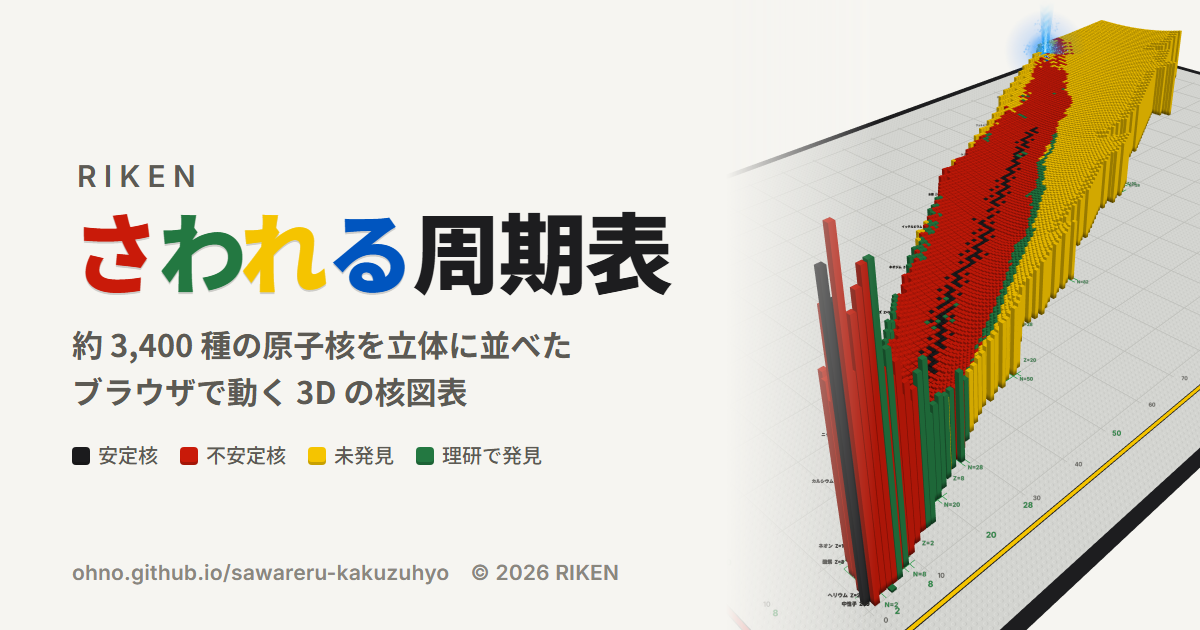
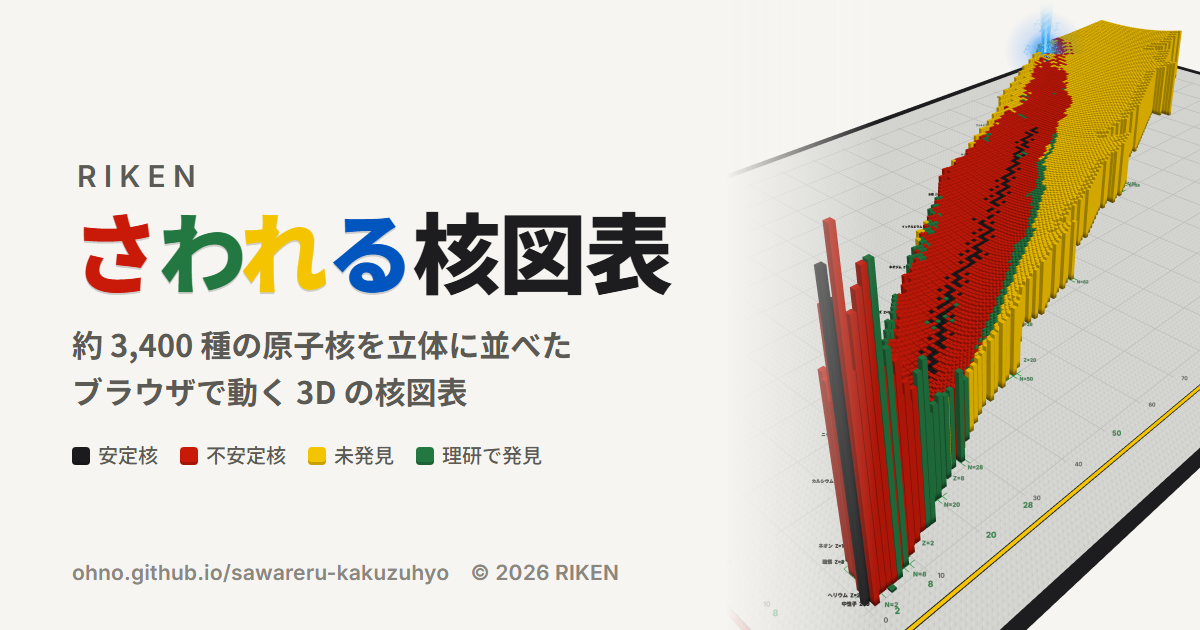
Name the app RIKENさわれる核図表 (RIKEN Touchable Nuclide Chart)
The name is RIKENさわれる核図表, not 周期表: the tab title, the header,
the link-preview image and tags (ogp.png?v=4), the README, the line on
how to cite the project and THIRD-PARTY-NOTICES. In English it is again
RIKEN Touchable Nuclide Chart.

Changed region(s): [[0.3392, 0.3317, 0.4933, 0.4825], [0.4625, 0.9048, 0.4933, 0.9349], [0.3392, 0.9048, 0.37, 0.9349]]

diff --git a/src/index.html b/src/index.html
@@ -3,21 +3,21 @@
 <head>
   <meta charset="utf-8">
   <meta name="viewport" content="width=device-width, initial-scale=1">
-  <title>RIKENさわれる周期表</title>
+  <title>RIKENさわれる核図表</title>
   <meta name="description" content="約 3,400 種の原子核を立体に並べた核図表。回して、近づいて、箱にふれると、半減期や崩壊のゆくえがわかります。">
   <meta name="theme-color" content="#f6f5f1">
   <link rel="canonical" href="https://ohno.github.io/sawareru-kakuzuhyo/">
   <link rel="icon" href="favicon.svg" type="image/svg+xml">
   <!-- link previews: ogp.png (1200 × 630) is the chart as the app draws it, with the title -->
   <meta property="og:type" content="website">
-  <meta property="og:site_name" content="RIKENさわれる周期表">
-  <meta property="og:title" content="RIKENさわれる周期表">
+  <meta property="og:site_name" content="RIKENさわれる核図表">
+  <meta property="og:title" content="RIKENさわれる核図表">
   <meta property="og:description" content="約 3,400 種の原子核を立体に並べた核図表。回して、近づいて、箱にふれると、半減期や崩壊のゆくえがわかります。">
   <meta property="og:url" content="https://ohno.github.io/sawareru-kakuzuhyo/">
-  <meta property="og:image" content="https://ohno.github.io/sawareru-kakuzuhyo/ogp.png?v=3"><!-- ?v=: a new image gets a new address, so link previews fetch it again -->
+  <meta property="og:image" content="https://ohno.github.io/sawareru-kakuzuhyo/ogp.png?v=4"><!-- ?v=: a new image gets a new address, so link previews fetch it again -->
   <meta property="og:image:width" content="1200">
   <meta property="og:image:height" content="630">
-  <meta property="og:image:alt" content="理研レゴ核図表の配色で原子核を立体に並べた核図表と、タイトル「RIKENさわれる周期表」">
+  <meta property="og:image:alt" content="理研レゴ核図表の配色で原子核を立体に並べた核図表と、タイトル「RIKENさわれる核図表」">
   <meta property="og:locale" content="ja_JP">
   <meta name="twitter:card" content="summary_large_image">
   <link rel="preconnect" href="https://fonts.googleapis.com">
@@ -39,7 +39,7 @@
   <!-- left panel: search, tutorial and settings. The lists marked "filled by main.js" come from the tables in js/ and data/. -->
   <aside id="controls" class="panel left collapsed" aria-label="検索と設定" data-en-aria-label="Search and settings">
     <header class="brand">
-      <h1 class="logo" aria-label="RIKENさわれる周期表" data-en-aria-label="RIKEN Touchable Periodic Table" data-en-html='<small class="logo-org">RIKEN</small><span class="logo-name"><span class="k-r">T</span><span class="k-g">o</span><span class="k-y">u</span><span class="k-b">c</span>hable Periodic Table</span>'><small class="logo-org">RIKEN</small><span class="logo-name"><span class="k-r">さ</span><span class="k-g">わ</span><span class="k-y">れ</span><span class="k-b">る</span>周期表</span></h1>
+      <h1 class="logo" aria-label="RIKENさわれる核図表" data-en-aria-label="RIKEN Touchable Nuclide Chart" data-en-html='<small class="logo-org">RIKEN</small><span class="logo-name"><span class="k-r">T</span><span class="k-g">o</span><span class="k-y">u</span><span class="k-b">c</span>hable Nuclide Chart</span>'><small class="logo-org">RIKEN</small><span class="logo-name"><span class="k-r">さ</span><span class="k-g">わ</span><span class="k-y">れ</span><span class="k-b">る</span>核図表</span></h1>
       <button id="collapse" class="icon-btn" title="パネルを開く・たたむ" aria-label="パネルを開く・たたむ" data-en-title="Open or fold the panel" data-en-aria-label="Open or fold the panel" aria-expanded="false">+</button>
     </header>
     <div class="panel-body">

diff --git a/src/js/main.js b/src/js/main.js
@@ -31,7 +31,7 @@ THREE.ColorManagement.enabled = false;
 
 // the page's own words in its language, at once (the JA / EN buttons on the toolbar switch it)
 translatePage();
-if (EN) document.title = 'RIKEN Touchable Periodic Table';
+if (EN) document.title = 'RIKEN Touchable Nuclide Chart';
 
 const $ = (s) => document.querySelector(s);
 const $$ = (s) => [...document.querySelectorAll(s)];

diff --git a/data/README.md b/data/README.md
@@ -16,7 +16,7 @@
 | `hypernuclei.yaml` | ハイパー核 | [Mainz Chart of Hypernuclides](https://hypernuclei.kph.uni-mainz.de/)（2026-08-04 のデータ）。Ξ は E. Friedman & A. Gal, *EPJ Web Conf.* **271**, 03002 (2022)（[CC BY 4.0](https://creativecommons.org/licenses/by/4.0/)） |
 | `hyper-driplines.yaml` | ハイパー核のドリップライン | C. Samanta et al., *J. Phys. G* **35**, 065101 (2008)；P. Roy Chowdhury et al., *Rom. Rep. Phys.* **62**, 65 (2010)；E.F. Meoto, *J. Phys. Commun.* **6**, 125004 (2022)（[CC BY 4.0](https://creativecommons.org/licenses/by/4.0/)） |
 | （`scripts/ktuy.py` がビルド時に取得） | 未発見の原子核の質量、安定の島（殻エネルギー） | H. Koura et al., *Prog. Theor. Phys.* **113**, 305 (2005)（KTUY05、JAEA 核データセンターの質量表） |
-| （このプロジェクト） | このプロジェクトの引用方法 | 理化学研究所『RIKENさわれる周期表』(2026) |
+| （このプロジェクト） | このプロジェクトの引用方法 | 理化学研究所『RIKENさわれる核図表』(2026) |
 
 出典の値は、必要なものを抜き出して YAML に書き換えています。
 
@@ -36,4 +36,4 @@ The same table in English, shown by the app in English mode (same rows, in the s
 | `hypernuclei.yaml` | Hypernuclei | [Mainz Chart of Hypernuclides](https://hypernuclei.kph.uni-mainz.de/) (data of 2026-08-04); Ξ from E. Friedman & A. Gal, *EPJ Web Conf.* **271**, 03002 (2022) ([CC BY 4.0](https://creativecommons.org/licenses/by/4.0/)) |
 | `hyper-driplines.yaml` | Drip lines of hypernuclei | C. Samanta et al., *J. Phys. G* **35**, 065101 (2008); P. Roy Chowdhury et al., *Rom. Rep. Phys.* **62**, 65 (2010); E.F. Meoto, *J. Phys. Commun.* **6**, 125004 (2022) ([CC BY 4.0](https://creativecommons.org/licenses/by/4.0/)) |
 | (fetched by `scripts/ktuy.py` at build time) | Masses of undiscovered nuclei, the island of stability (shell energies) | H. Koura et al., *Prog. Theor. Phys.* **113**, 305 (2005) (KTUY05, mass table of the JAEA Nuclear Data Center) |
-| (this project) | How to cite this project | RIKEN, *RIKEN Touchable Periodic Table* (2026) |
+| (this project) | How to cite this project | RIKEN, *RIKEN Touchable Nuclide Chart* (2026) |

diff --git a/README.md b/README.md
@@ -1,4 +1,4 @@
-# RIKENさわれる周期表
+# RIKENさわれる核図表
 
 https://ohno.github.io/sawareru-kakuzuhyo/
 
@@ -53,4 +53,4 @@ Python 3 を使用します。`build.py` は、未発見の原子核と安定の
 
 ## English
 
-The *RIKEN Touchable Periodic Table* (RIKENさわれる周期表) is an interactive 3D chart of about 3,400 nuclides in the colors of RIKEN's LEGO® chart of nuclides: rotate it, zoom in, and point at a box to see the half-life, the decay modes and where the decays lead. The interface is in Japanese and English (chosen from the browser's language; the button at the right end of the toolbar switches it), and a walking mode (`w` key) lets you roll and jump across the chart as a little ball (press jump again and again to fly), collecting stars over the doubly magic nuclei. It was made at the RIKEN TRIP Hackathon of fiscal year 2026 by the 元素変換 (element transmutation) team; the code is under the [MIT License](LICENSE), and the data sources are listed in [data/README.md](data/README.md).
+The *RIKEN Touchable Nuclide Chart* (RIKENさわれる核図表) is an interactive 3D chart of about 3,400 nuclides in the colors of RIKEN's LEGO® chart of nuclides: rotate it, zoom in, and point at a box to see the half-life, the decay modes and where the decays lead. The interface is in Japanese and English (chosen from the browser's language; the button at the right end of the toolbar switches it), and a walking mode (`w` key) lets you roll and jump across the chart as a little ball (press jump again and again to fly), collecting stars over the doubly magic nuclei. It was made at the RIKEN TRIP Hackathon of fiscal year 2026 by the 元素変換 (element transmutation) team; the code is under the [MIT License](LICENSE), and the data sources are listed in [data/README.md](data/README.md).
